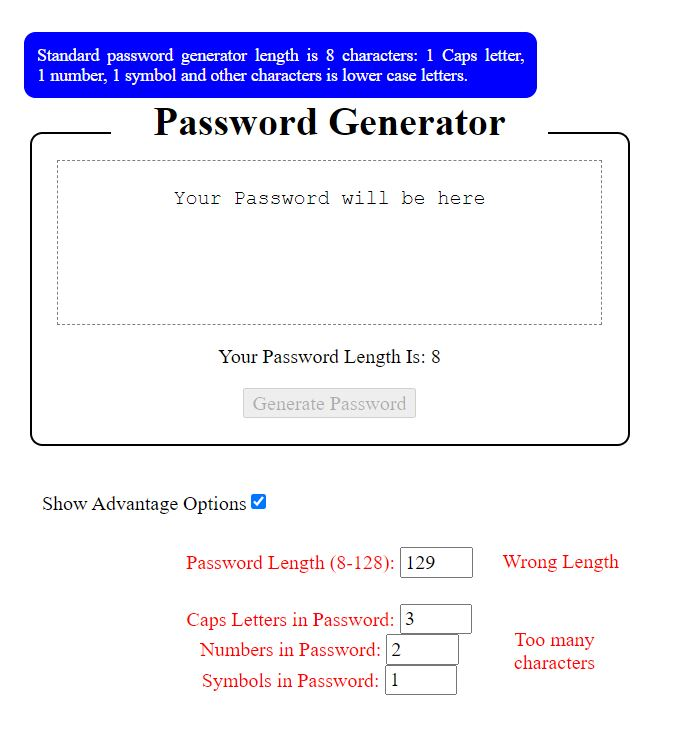
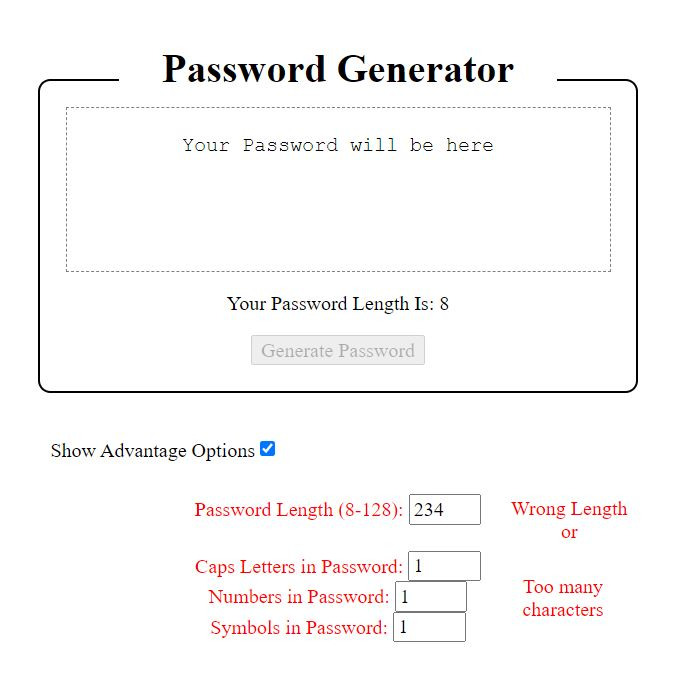
updating read me file

diff --git a/assets/js/main.js b/assets/js/main.js
@@ -55,7 +55,7 @@ gebi("forPaswSym").addEventListener("change", updateText);
         console.log("dfafasfasfsafasfas")
         // gebi("paswGen").style.backgroundColor = "#aaaaaa";
         gebi("advanceLen").style.color = "red";
-        gebi("errorMsgL").innerHTML = "Wrong Length";
+        gebi("errorMsgL").innerHTML = "Wrong Length or";
         gebi("paswGen").disabled = true;
     }
     else {
